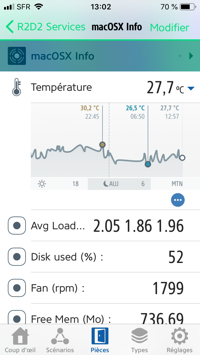
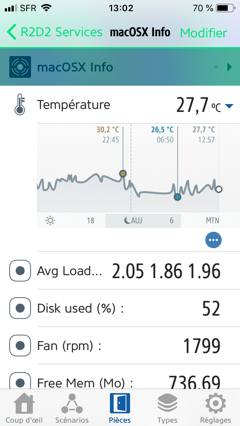
v1.0.0

diff --git a/README.md b/README.md
@@ -13,10 +13,10 @@ Such as :
 * UpdateTime
 
 You can see below two screenshots for illustrate homebridge-macos-info homebridge/HomeKit plugin.
-<div style="width:430px; height:355px; overflow:scroll; overflow-x: scroll;overflow-y: hidden">
-<img style=" float:left; display:inline" src=https://di-marco.net/screenshots/screenshot_1.png width="200px" height="355px"/>
+<div style="width:510px; height:426px; overflow:scroll; overflow-x: scroll;overflow-y: hidden">
+<img style=" float:left; display:inline" src=https://di-marco.net/screenshots/screenshot_1.png width="240px" height="426px"/>
 <img style=" float:left; display:inline" src=https://di-marco.net/screenshots/.fake.png width="30px" height="30px"/>
-<img style=" float:left; display:inline" src=https://di-marco.net/screenshots/screenshot_2.png width="200px" height="355px"/>
+<img style=" float:left; display:inline" src=https://di-marco.net/screenshots/screenshot_2.png width="240px" height="426px"/>
 </div>
 
 ## Exemple of .json data response file
